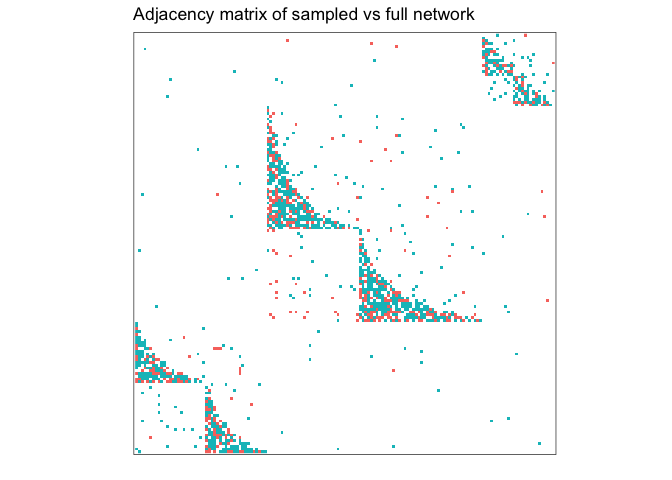
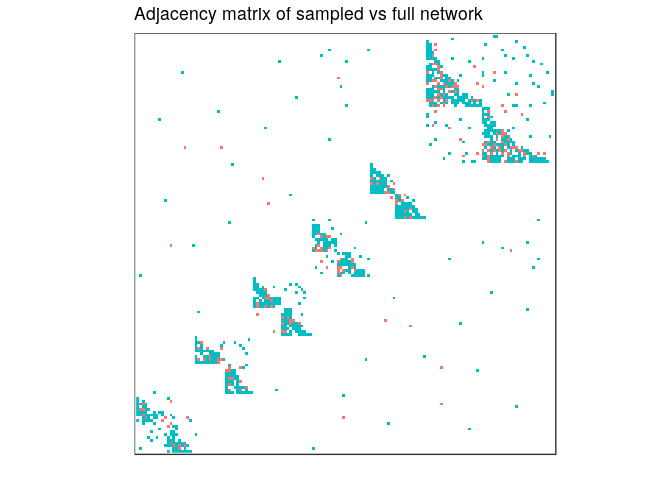
update readme, news; add test

diff --git a/README.md b/README.md
@@ -1,19 +1,11 @@
 EcoNetGen
 ================
 
-[![Travis-CI Build
-Status](https://travis-ci.org/cboettig/EcoNetGen.svg?branch=master)](https://travis-ci.org/cboettig/EcoNetGen)
-[![AppVeyor Build
-Status](https://ci.appveyor.com/api/projects/status/github/cboettig/EcoNetGen?branch=master&svg=true)](https://ci.appveyor.com/project/cboettig/EcoNetGen)
-[![Coverage
-Status](https://img.shields.io/codecov/c/github/cboettig/EcoNetGen/master.svg)](https://codecov.io/github/cboettig/EcoNetGen?branch=master)
-[![CRAN\_Status\_Badge](http://www.r-pkg.org/badges/version/EcoNetGen)](https://cran.r-project.org/package=EcoNetGen)
-[![lifecycle](https://img.shields.io/badge/lifecycle-maturing-blue.svg)](https://www.tidyverse.org/lifecycle/#maturing)
-[![DOI](https://zenodo.org/badge/116610054.svg)](https://zenodo.org/badge/latestdoi/116610054)
+[![Travis-CI Build Status](https://travis-ci.org/cboettig/EcoNetGen.svg?branch=master)](https://travis-ci.org/cboettig/EcoNetGen) [![AppVeyor Build Status](https://ci.appveyor.com/api/projects/status/github/cboettig/EcoNetGen?branch=master&svg=true)](https://ci.appveyor.com/project/cboettig/EcoNetGen) [![Coverage Status](https://img.shields.io/codecov/c/github/cboettig/EcoNetGen/master.svg)](https://codecov.io/github/cboettig/EcoNetGen?branch=master) [![CRAN\_Status\_Badge](http://www.r-pkg.org/badges/version/EcoNetGen)](https://cran.r-project.org/package=EcoNetGen) [![lifecycle](https://img.shields.io/badge/lifecycle-maturing-blue.svg)](https://www.tidyverse.org/lifecycle/#maturing) [![DOI](https://zenodo.org/badge/116610054.svg)](https://zenodo.org/badge/latestdoi/116610054)
 
 <!-- README.md is generated from README.Rmd. Please edit that file -->
-
-## Installation
+Installation
+------------
 
 You can install EcoNetGen from github with:
 
@@ -22,22 +14,23 @@ You can install EcoNetGen from github with:
 devtools::install_github("cboettig/EcoNetGen")
 ```
 
-## Generate random networks
+Generate random networks
+------------------------
 
-This is a basic example which generates a network. See `?netgen` for
-documentation describing the parameter arguments.
+This is a basic example which generates a network. See `?netgen` for documentation describing the parameter arguments.
 
 ``` r
 library(EcoNetGen)
+set.seed(123456) # for a reproducible simulation
 network <- netgen(n_modav = c(150, 20), # network size, ave module size
                   cutoffs = c(20, 5),   # module and submodule min sizes
                   net_type = 41,        # bi-partite nested
                   net_degree = 10,      # average degree of connection
                   net_rewire = c(0.07,0.2)) # rewire probabilities
 #> 
-#> module count = 3 
-#> average degree = 8.62666666666667 
-#> average module size = 50 
+#> module count = 6 
+#> average degree = 6.74666666666667 
+#> average module size = 25 
 #> number of components = 1 
 #> size of largest component = 150
 ```
@@ -48,10 +41,9 @@ We can plot the resulting `igraph` as an adjacency matrix:
 adj_plot(network)
 ```
 
-![](man/figures/README-unnamed-chunk-2-1.png)<!-- -->
+![](man/figures/README-unnamed-chunk-2-1.png)
 
-Network `igraph` objects can also be plotted using the standard `igraph`
-plotting routines, for example:
+Network `igraph` objects can also be plotted using the standard `igraph` plotting routines, for example:
 
 ``` r
 library(igraph)
@@ -68,9 +60,10 @@ plot(network, vertex.size= 0, vertex.label=NA,
      edge.curved =TRUE, layout = layout_with_kk)
 ```
 
-![](man/figures/README-unnamed-chunk-3-1.png)<!-- -->
+![](man/figures/README-unnamed-chunk-3-1.png)
 
-## Sample from a network
+Sample from a network
+---------------------
 
 ``` r
 subnet <- netsample(network,
@@ -82,23 +75,16 @@ subnet <- netsample(network,
                  )
 ```
 
-We can plot the adjacency network, coloring red the sampled nodes. Note
-that `adj_plot` objects are just `ggplot` graphs (`geom_raster`) under
-the hood, and can be modified with the usual `ggplot` arguments, such as
-adding a title here.
+We can plot the adjacency network, coloring red the sampled nodes. Note that `adj_plot` objects are just `ggplot` graphs (`geom_raster`) under the hood, and can be modified with the usual `ggplot` arguments, such as adding a title here.
 
 ``` r
 library(ggplot2)
 adj_plot(subnet) + ggtitle("Adjacency matrix of sampled vs full network")
 ```
 
-![](man/figures/README-unnamed-chunk-5-1.png)<!-- -->
+![](man/figures/README-unnamed-chunk-5-1.png)
 
-Don’t forget to check out the `ggraph` package, which isn’t required for
-`EcoNetGen` but provides a lot of additional great ways to plot your
-network. Here we plot the simulated network color-coding the sampled
-nodes and edges (indicated by the label “sampled” on vertices and
-edges):
+Don't forget to check out the `ggraph` package, which isn't required for `EcoNetGen` but provides a lot of additional great ways to plot your network. Here we plot the simulated network color-coding the sampled nodes and edges (indicated by the label "sampled" on vertices and edges):
 
 ``` r
 library(ggraph)
@@ -109,18 +95,17 @@ ggraph(subnet, layout = 'kk') +
 #> Warning: Ignoring unknown aesthetics: edge_size
 ```
 
-![](man/figures/README-unnamed-chunk-6-1.png)<!-- -->
+![](man/figures/README-unnamed-chunk-6-1.png)
 
-## A few example statistics
+A few example statistics
+------------------------
 
-And we can compute common statistics from igraph as well. Here we
-confirm that clustering by “edge betweeness” gives us the expected
-number of modules:
+And we can compute common statistics from igraph as well. Here we confirm that clustering by "edge betweeness" gives us the expected number of modules:
 
 ``` r
 community <- cluster_edge_betweenness(as.undirected(network))
 length(groups(community))
-#> [1] 3
+#> [1] 6
 ```
 
 We can check the size of each module as well:
@@ -128,13 +113,13 @@ We can check the size of each module as well:
 ``` r
 module_sizes <- sapply(groups(community), length)
 module_sizes
-#>  1  2  3 
-#> 47 76 27
+#>  1  2  3  4  5  6 
+#> 20 21 22 21 20 46
 mean(module_sizes)
-#> [1] 50
+#> [1] 25
 ```
 
 ``` r
 mean(degree(as.undirected(network)))
-#> [1] 8.64
+#> [1] 6.786667
 ```

diff --git a/NEWS.md b/NEWS.md
@@ -1,8 +1,13 @@
-# NetGen 0.1.1
+# NetGen 0.2.0
+
+* Add `netsample()` routine
+* Ensure that FORTRAN correctly obeys `set.seed()` by always using the R random number generator. [#6](https://github.com/cboettig/EcoNetGen/issues/6)
+
+# NetGen 0.1.1 2018-04-10
 
 * Initial release to CRAN
 
-# NetGen 0.1.0 2017-04-04
+# NetGen 0.1.0 2018-04-04
 
 * Added a `NEWS.md` file to track changes to the package.
 
